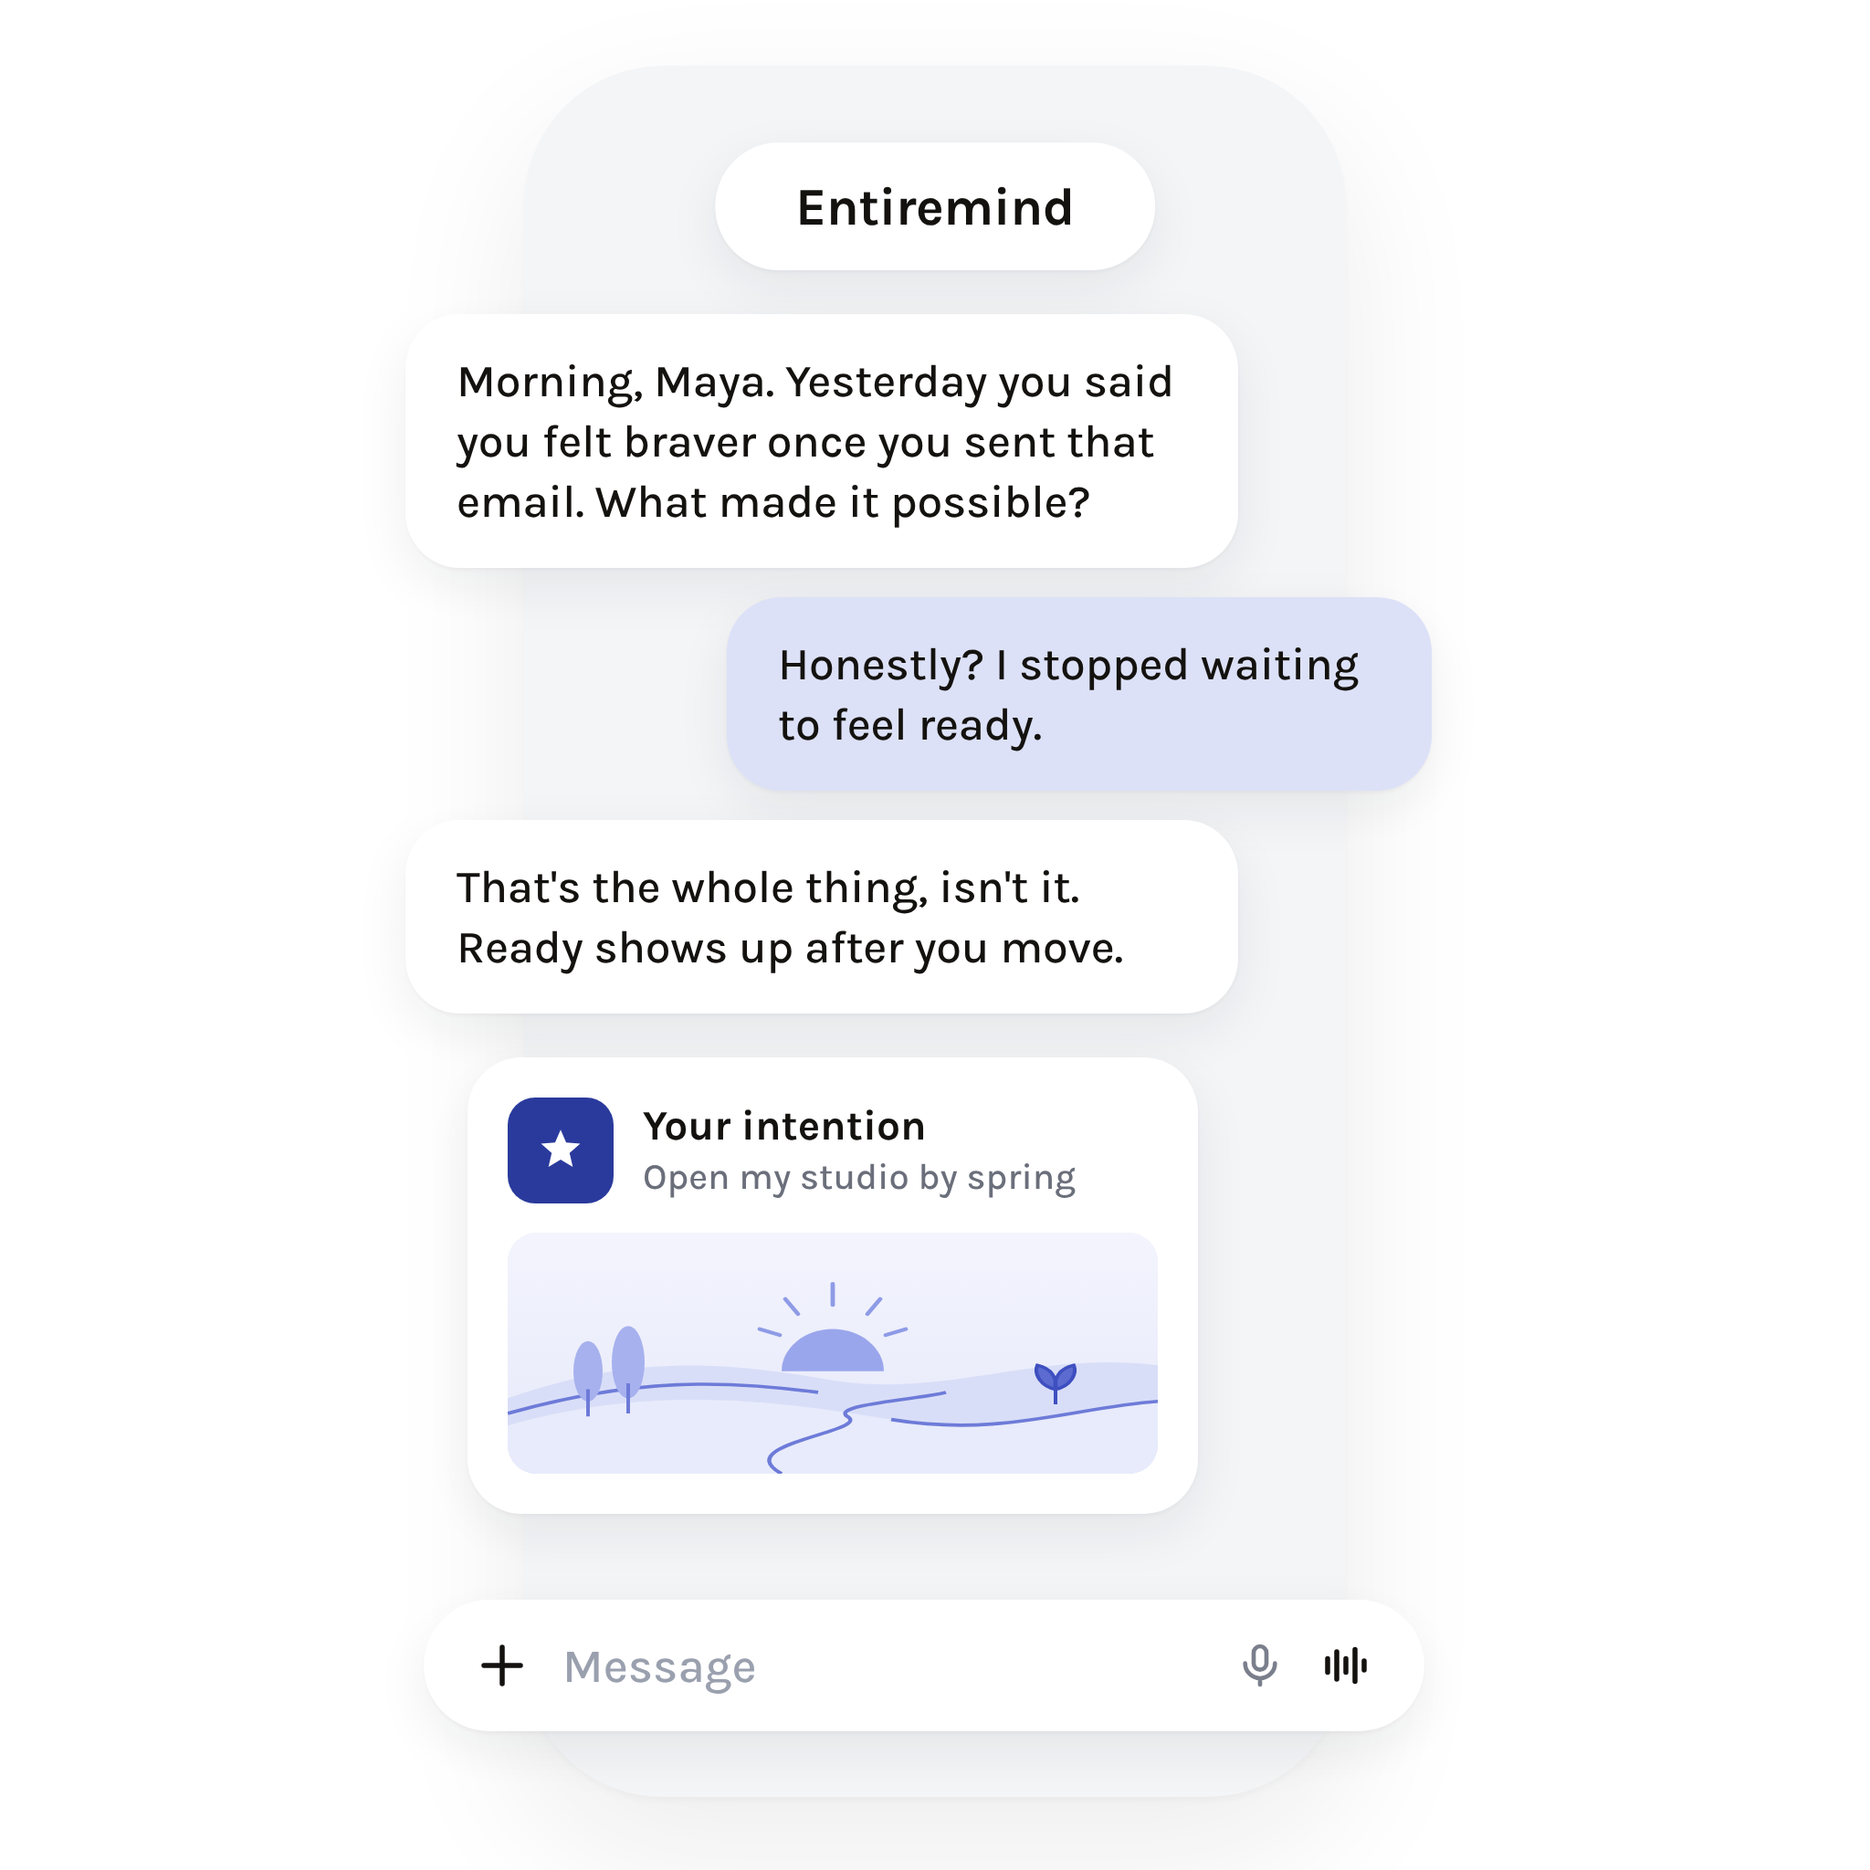
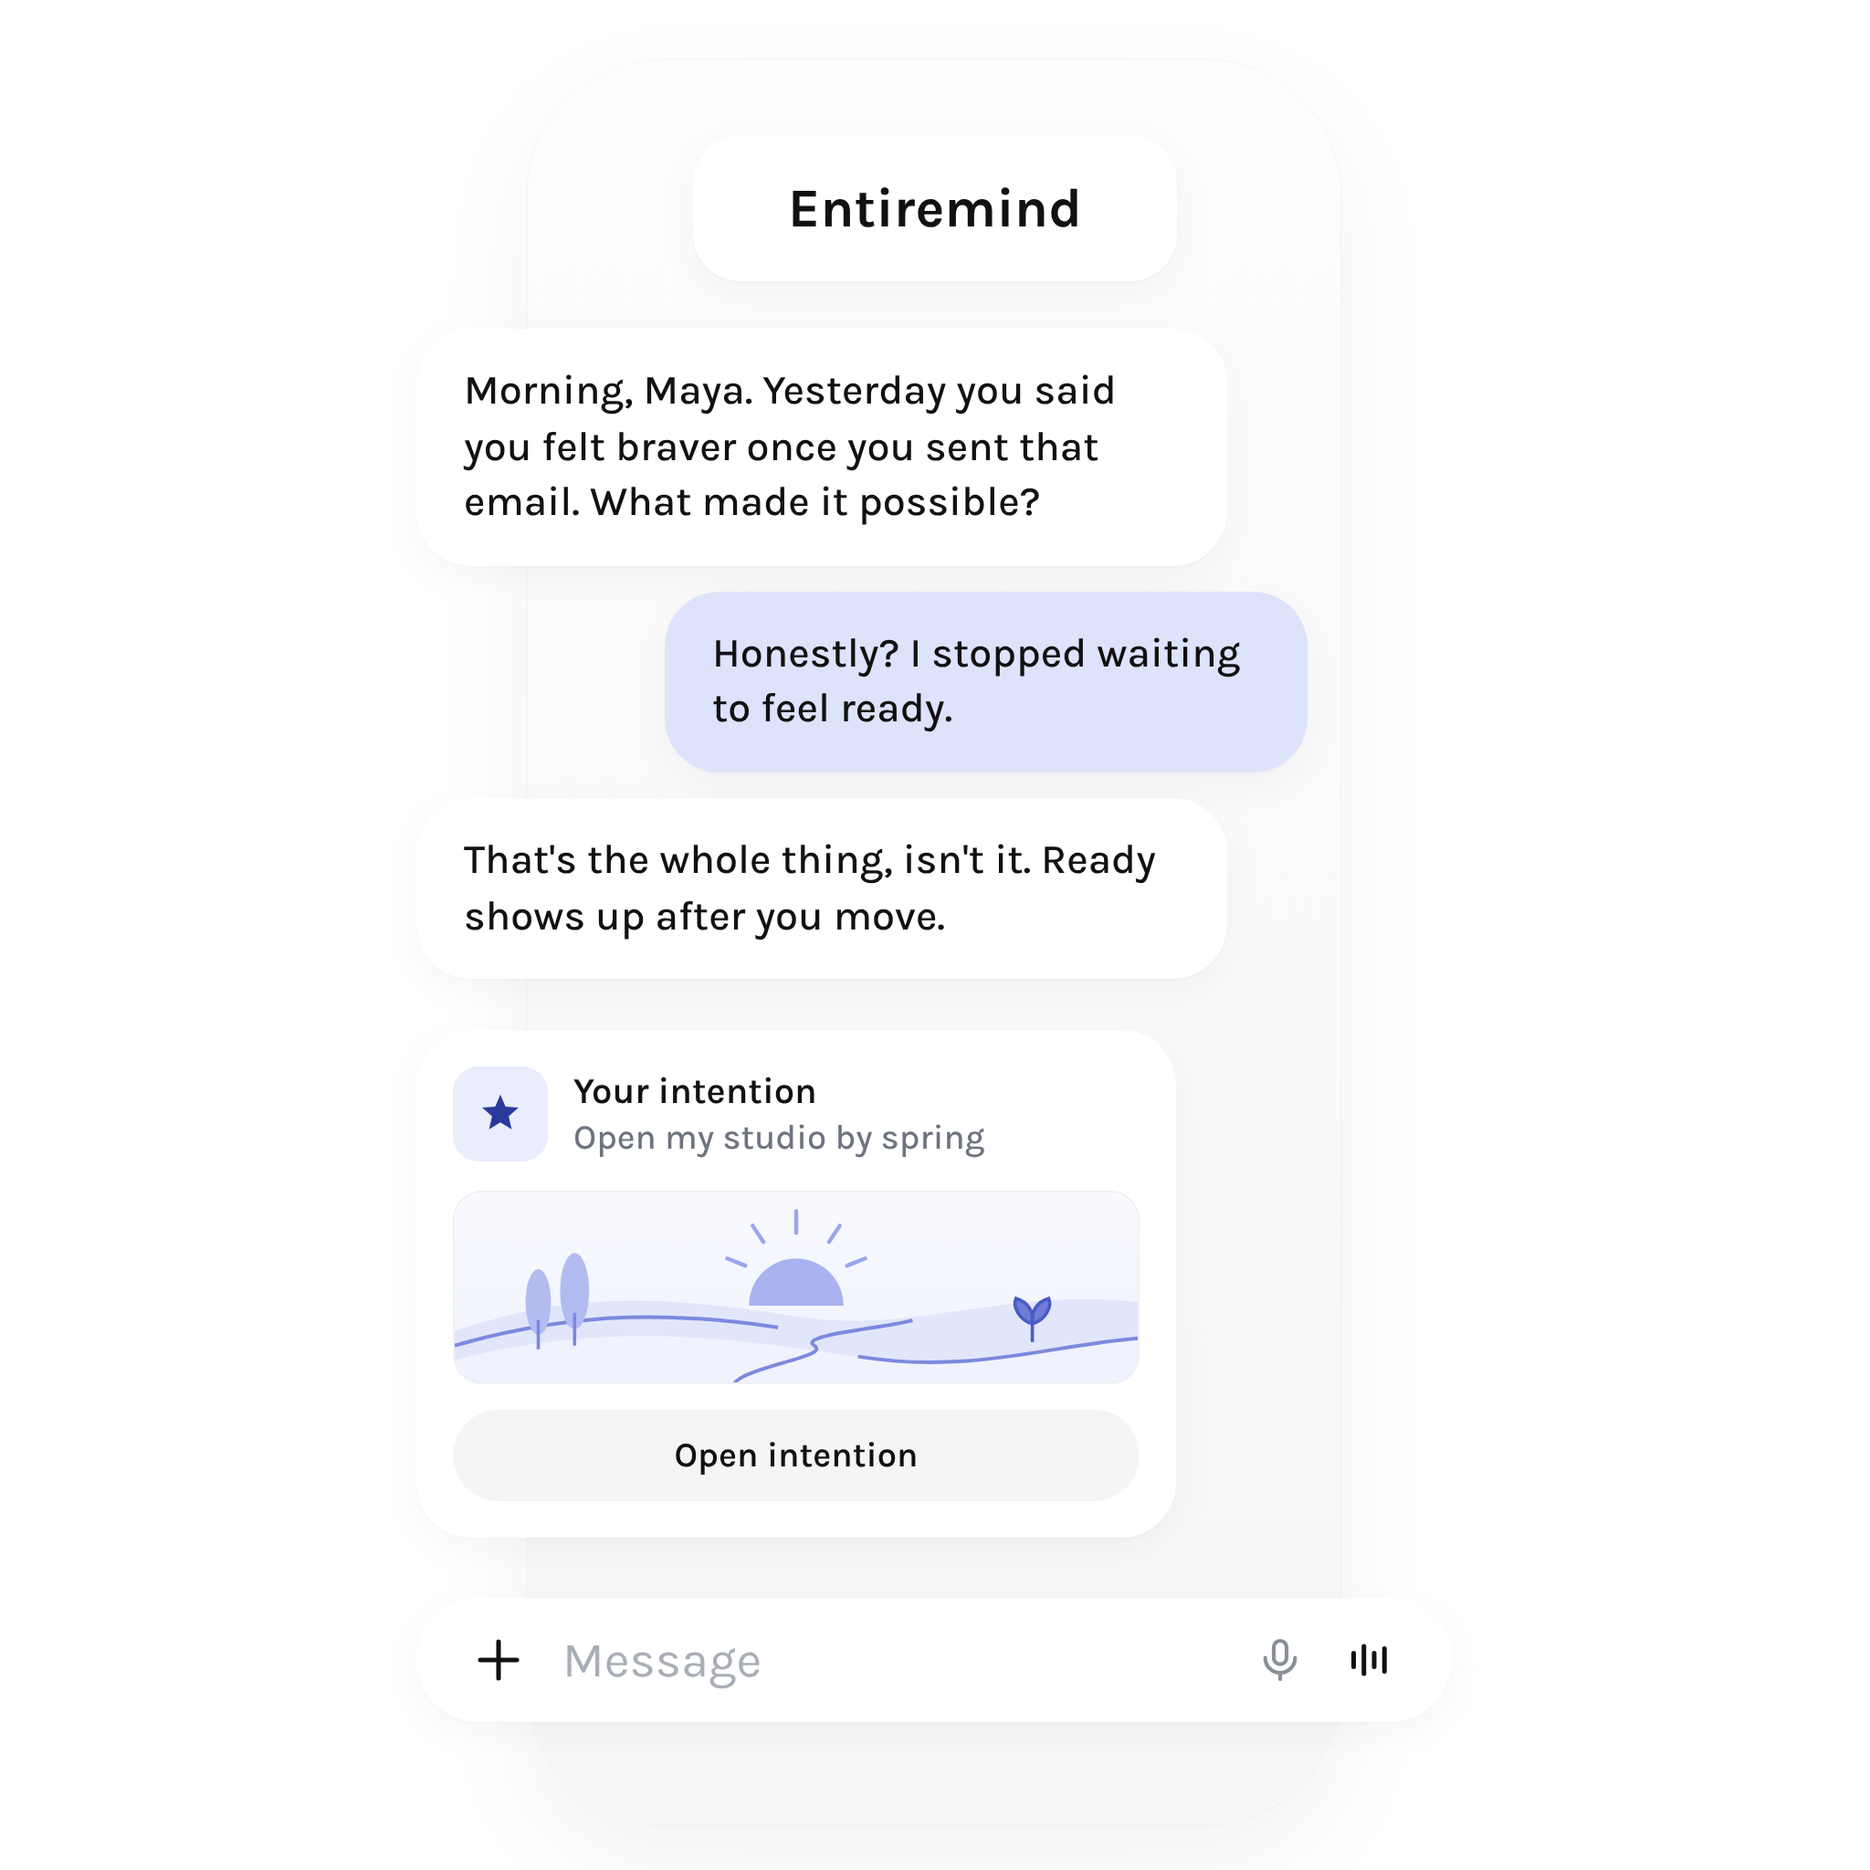
Lighten hero phone to match the reference
Panel ~#FAFAFA, pure-white surfaces, ~4-5% shadows, pale icon tile,
light reply bubble, card button. Variants: Karla, Inter, sky-blue reply.

Claude-Session: https://claude.ai/code/session_01XFR3k6ZrktobPacJJyLqAi

diff --git a/docs/marketing/hero-phone/phone.html b/docs/marketing/hero-phone/phone.html
@@ -2,78 +2,64 @@
 <html>
 <head>
 <meta charset="utf-8">
-<link href="https://fonts.googleapis.com/css2?family=Karla:wght@400;500;600;700&family=Prata&display=swap" rel="stylesheet">
+<link href="https://fonts.googleapis.com/css2?family=Karla:wght@400;500;600;700&family=Inter:wght@400;500;600;700&display=swap" rel="stylesheet">
 <style>
+  /* Values sampled from the Muse reference (panel ~#FAFAFA, surfaces pure white,
+     shadows ~4-5% alpha), with Entiremind cobalt as the single accent. */
   :root {
+    --font: "Karla", system-ui, sans-serif;
     --cobalt: #2A3A9C;
-    --cobalt-wash: #E7E9F4;
-    --ink: #14120F;
-    --muted: #6B6F7B;
-    --panel: #F4F5F7;
-    --bubble: #FFFFFF;
-    --out-bg: #DCE1F7;
-    --out-ink: #14120F;
-    --card: #FFFFFF;
-    --bar: #FFFFFF;
-    --shadow: 0 1px 2px rgba(20,24,40,.04), 0 10px 30px rgba(20,24,40,.07);
-    --panel-shadow: 0 2px 4px rgba(20,24,40,.03), 0 30px 80px rgba(20,24,40,.08);
+    --ink: #111111;
+    --muted: #6E7480;
+    --panel-top: #FDFDFD;
+    --panel-bot: #F7F7F7;
+    --surface: #FFFFFF;
+    --out-bg: #DDE3FB;          /* light cobalt */
+    --tile-bg: #E9EDFC;
+    --button-bg: #F3F5F7;
+    --placeholder: #A9AEB7;
+    --shadow: 0 1px 1px rgba(0,0,0,.02), 0 6px 24px rgba(0,0,0,.045);
+    --panel-shadow: 0 0 0 1px rgba(0,0,0,.025), 0 20px 60px rgba(0,0,0,.05);
   }
-  /* B: warm, brand linen */
-  body.warm {
-    --panel: #F3F0EA;
-    --bubble: #FFFDF9;
-    --out-bg: #E7E9F4;
-    --card: #FFFDF9;
-    --bar: #FFFDF9;
-    --muted: #7A7264;
-    --shadow: 0 1px 2px rgba(40,30,10,.04), 0 10px 30px rgba(40,30,10,.07);
-    --panel-shadow: 0 2px 4px rgba(40,30,10,.03), 0 30px 80px rgba(40,30,10,.08);
-  }
-  /* C: solid cobalt replies */
-  body.solid { --out-bg: var(--cobalt); --out-ink: #FFFFFF; }
+  body.inter { --font: "Inter", system-ui, sans-serif; }
+  body.sky { --out-bg: #CDE5FD; --tile-bg: #E6F4FF; }
 
   html, body { margin: 0; background: transparent; }
   body { width: 1024px; height: 1024px; position: relative; overflow: hidden;
-         font-family: "Karla", system-ui, sans-serif; color: var(--ink);
-         -webkit-font-smoothing: antialiased; }
+         font-family: var(--font); color: var(--ink); -webkit-font-smoothing: antialiased; }
+  body.inter { letter-spacing: -0.012em; }
 
-  .panel { position: absolute; left: 287px; top: 36px; width: 450px; height: 948px;
-           background: var(--panel); border-radius: 76px; box-shadow: var(--panel-shadow); }
+  .panel { position: absolute; left: 289px; top: 33px; width: 445px; height: 966px;
+           border-radius: 74px; box-shadow: var(--panel-shadow);
+           background: linear-gradient(180deg, var(--panel-top), var(--panel-bot)); }
 
-  .pill { position: absolute; left: 50%; top: 78px; transform: translateX(-50%);
-          background: var(--bubble); border-radius: 999px; padding: 18px 44px;
-          font-weight: 700; font-size: 29px; letter-spacing: -.01em; box-shadow: var(--shadow); }
+  .pill { position: absolute; left: 50%; top: 74px; transform: translateX(-50%);
+          background: var(--surface); border-radius: 26px; padding: 22px 52px;
+          font-weight: 700; font-size: 30px; box-shadow: var(--shadow); }
 
-  .bubble { position: absolute; background: var(--bubble); border-radius: 30px;
-            padding: 20px 28px; font-size: 25px; line-height: 1.32; font-weight: 500;
-            box-shadow: var(--shadow); letter-spacing: -.005em; }
-  .in { left: 228px; }
-  .out { right: 300px; background: var(--out-bg); color: var(--out-ink); }
+  .stack { position: absolute; left: 228px; top: 180px; width: 488px;
+           display: flex; flex-direction: column; gap: 14px; }
+  .bubble { background: var(--surface); border-radius: 30px; padding: 19px 26px;
+            font-size: 22.5px; line-height: 1.36; font-weight: 500; box-shadow: var(--shadow);
+            width: fit-content; max-width: 392px; }
+  .in { align-self: flex-start; }
+  .out { align-self: flex-end; background: var(--out-bg); max-width: 300px; }
 
-  .card { position: absolute; left: 265px; top: 560px; width: 400px; background: var(--card);
-          border-radius: 30px; padding: 22px; box-shadow: var(--shadow); box-sizing: border-box; }
-  .card-head { display: flex; align-items: center; gap: 16px; margin-bottom: 16px; }
-  .tile { width: 58px; height: 58px; border-radius: 15px; background: var(--cobalt);
+  .card { margin-top: 14px; width: 416px; background: var(--surface); border-radius: 30px;
+          padding: 20px; box-sizing: border-box; box-shadow: var(--shadow); }
+  .card-head { display: flex; align-items: center; gap: 14px; margin-bottom: 16px; }
+  .tile { width: 52px; height: 52px; border-radius: 14px; background: var(--tile-bg);
           display: grid; place-items: center; flex: none; }
-  .title { font-weight: 700; font-size: 23px; line-height: 1.15; }
-  .sub { color: var(--muted); font-size: 20px; font-weight: 500; margin-top: 3px; }
-  .art { border-radius: 16px; overflow: hidden; background: #EEF0FB; height: 132px; }
+  .title { font-weight: 600; font-size: 20px; line-height: 1.2; }
+  .sub { color: var(--muted); font-size: 19px; font-weight: 500; margin-top: 2px; }
+  .art { border-radius: 16px; overflow: hidden; border: 1px solid #F0F1F4; height: 104px; }
+  .btn { margin-top: 14px; height: 50px; border-radius: 999px; background: var(--button-bg);
+         display: grid; place-items: center; font-weight: 600; font-size: 19px; }
 
-  .bar { position: absolute; left: 232px; top: 876px; width: 548px; height: 72px;
-         background: var(--bar); border-radius: 999px; box-shadow: var(--shadow);
-         display: flex; align-items: center; padding: 0 28px; box-sizing: border-box; gap: 18px; }
-  .bar .ph { flex: 1; color: #9AA0AE; font-size: 26px; font-weight: 500; }
-
-  /* C variant: card floats outside, tilted */
-  body.float .card { left: 150px; top: 600px; transform: rotate(-5deg); }
-
-  .stack { position: absolute; left: 222px; top: 172px; width: 540px; display: flex;
-           flex-direction: column; gap: 16px; }
-  .stack .bubble { position: static; max-width: 400px; width: fit-content; }
-  .stack .in { align-self: flex-start; }
-  .stack .out { align-self: flex-end; margin-right: -22px; max-width: 330px; }
-  .stack .card { position: static; margin: 8px 0 0 34px; }
-  body.float .stack .card { margin: 14px 0 0 -70px; transform: rotate(-5deg); }
+  .bar { position: absolute; left: 228px; top: 875px; width: 567px; height: 68px;
+         background: var(--surface); border-radius: 999px; box-shadow: var(--shadow);
+         display: flex; align-items: center; padding: 0 30px; box-sizing: border-box; gap: 20px; }
+  .bar .ph { flex: 1; color: var(--placeholder); font-size: 27px; font-weight: 400; }
 </style>
 </head>
 <body>
@@ -84,44 +70,45 @@
     <div class="bubble in">Morning, Maya. Yesterday you said you felt braver once you sent that email. What made it possible?</div>
     <div class="bubble out">Honestly? I stopped waiting to feel ready.</div>
     <div class="bubble in">That's the whole thing, isn't it. Ready shows up after you move.</div>
-    <div class="card">
-    <div class="card-head">
-      <div class="tile">
-        <svg width="28" height="28" viewBox="0 0 24 24"><path fill="#fff" d="M12 2.2l2.6 6.1 6.6.5-5 4.4 1.5 6.5L12 16.3l-5.7 3.4 1.5-6.5-5-4.4 6.6-.5z"/></svg>
-      </div>
-      <div>
-        <div class="title">Your intention</div>
-        <div class="sub">Open my studio by spring</div>
-      </div>
-    </div>
-    <div class="art">
-      <svg viewBox="0 0 356 160" width="100%" height="132" preserveAspectRatio="none">
-        <defs><linearGradient id="sky" x1="0" y1="0" x2="0" y2="1"><stop offset="0" stop-color="#F3F4FD"/><stop offset="1" stop-color="#E6E9FA"/></linearGradient></defs>
-        <rect width="356" height="160" fill="url(#sky)"/>
-        <g stroke="#8E9BE6" stroke-width="2.4" stroke-linecap="round">
-          <line x1="178" y1="34" x2="178" y2="48"/><line x1="152" y1="44" x2="159" y2="54"/><line x1="204" y1="44" x2="197" y2="54"/>
-          <line x1="138" y1="64" x2="149" y2="68"/><line x1="218" y1="64" x2="207" y2="68"/>
-        </g>
-        <path d="M150 92a28 28 0 0 1 56 0z" fill="#9AA6EC"/>
-        <path d="M0 110 C70 80 120 86 178 98 C240 110 290 78 356 88 L356 160 L0 160Z" fill="#D9DEF8"/>
-        <path d="M0 128 C80 100 150 112 210 124 C270 136 310 116 356 112 L356 160 L0 160Z" fill="#E8EBFB"/>
-        <path d="M0 120 C70 96 120 98 170 106" fill="none" stroke="#6D7BD8" stroke-width="2.2"/>
-        <path d="M210 124 C270 136 310 116 356 112" fill="none" stroke="#6D7BD8" stroke-width="2.2"/>
-        <path d="M150 160 C120 140 200 132 186 122 C176 114 230 110 240 106" fill="none" stroke="#6D7BD8" stroke-width="2.2"/>
-        <ellipse cx="44" cy="92" rx="8" ry="20" fill="#A7B1EE"/><line x1="44" y1="104" x2="44" y2="122" stroke="#6D7BD8" stroke-width="2"/>
-        <ellipse cx="66" cy="86" rx="9" ry="24" fill="#A7B1EE"/><line x1="66" y1="100" x2="66" y2="120" stroke="#6D7BD8" stroke-width="2"/>
-        <path d="M300 114 v-16 M300 104 c-8-2-12-10-10-16 8 2 11 9 10 16 M300 104 c8-2 12-10 10-16 -8 2-11 9-10 16" stroke="#3E4FC0" stroke-width="2" fill="#5C6BD0"/>
-      </svg>
-    </div>
-  </div>
 
+    <div class="card">
+      <div class="card-head">
+        <div class="tile">
+          <svg width="26" height="26" viewBox="0 0 24 24"><path fill="#2A3A9C" d="M12 2.2l2.6 6.1 6.6.5-5 4.4 1.5 6.5L12 16.3l-5.7 3.4 1.5-6.5-5-4.4 6.6-.5z"/></svg>
+        </div>
+        <div>
+          <div class="title">Your intention</div>
+          <div class="sub">Open my studio by spring</div>
+        </div>
+      </div>
+      <div class="art">
+        <svg viewBox="0 0 376 124" width="100%" height="104" preserveAspectRatio="xMidYMid slice">
+          <defs><linearGradient id="sky" x1="0" y1="0" x2="0" y2="1"><stop offset="0" stop-color="#FAFBFF"/><stop offset="1" stop-color="#EEF1FD"/></linearGradient></defs>
+          <rect width="376" height="124" fill="url(#sky)"/>
+          <g stroke="#9AA6EC" stroke-width="2.2" stroke-linecap="round">
+            <line x1="188" y1="20" x2="188" y2="32"/><line x1="164" y1="28" x2="170" y2="37"/><line x1="212" y1="28" x2="206" y2="37"/>
+            <line x1="150" y1="46" x2="160" y2="50"/><line x1="226" y1="46" x2="216" y2="50"/>
+          </g>
+          <path d="M162 72a26 26 0 0 1 52 0z" fill="#A9B3F0"/>
+          <path d="M0 86 C70 62 124 68 188 78 C252 88 304 62 376 70 L376 124 L0 124Z" fill="#E1E6FB"/>
+          <path d="M0 102 C84 80 156 90 220 100 C284 110 326 94 376 90 L376 124 L0 124Z" fill="#F0F2FD"/>
+          <path d="M0 94 C70 74 124 76 178 84" fill="none" stroke="#7C89DE" stroke-width="2"/>
+          <path d="M222 100 C284 110 326 94 376 90" fill="none" stroke="#7C89DE" stroke-width="2"/>
+          <path d="M160 124 C130 108 210 102 198 94 C188 88 240 84 252 80" fill="none" stroke="#7C89DE" stroke-width="2"/>
+          <ellipse cx="46" cy="70" rx="7" ry="18" fill="#B3BCF1"/><line x1="46" y1="80" x2="46" y2="96" stroke="#7C89DE" stroke-width="1.8"/>
+          <ellipse cx="66" cy="64" rx="8" ry="21" fill="#B3BCF1"/><line x1="66" y1="76" x2="66" y2="94" stroke="#7C89DE" stroke-width="1.8"/>
+          <path d="M318 92 v-14 M318 82 c-7-2-11-9-9-14 7 2 10 8 9 14 M318 82 c7-2 11-9 9-14 -7 2-10 8-9 14" stroke="#4A5AC6" stroke-width="1.8" fill="#6E7CD6"/>
+        </svg>
+      </div>
+      <div class="btn">Open intention</div>
+    </div>
   </div>
 
   <div class="bar">
-    <svg width="30" height="30" viewBox="0 0 24 24"><path d="M12 4v16M4 12h16" stroke="#14120F" stroke-width="2.2" stroke-linecap="round"/></svg>
+    <svg width="30" height="30" viewBox="0 0 24 24"><path d="M12 4v16M4 12h16" stroke="#111" stroke-width="2" stroke-linecap="round"/></svg>
     <div class="ph">Message</div>
-    <svg width="28" height="28" viewBox="0 0 24 24" fill="none" stroke="#7A7F8C" stroke-width="2" stroke-linecap="round"><rect x="9" y="3" width="6" height="11" rx="3"/><path d="M5 11a7 7 0 0 0 14 0M12 18v3"/></svg>
-    <svg width="30" height="30" viewBox="0 0 24 24" stroke="#14120F" stroke-width="2.2" stroke-linecap="round"><path d="M4 9v6M8 6v12M12 9v6M16 5v14M20 10v4"/></svg>
+    <svg width="28" height="28" viewBox="0 0 24 24" fill="none" stroke="#8A9099" stroke-width="1.8" stroke-linecap="round"><rect x="9" y="3" width="6" height="11" rx="3"/><path d="M5 11a7 7 0 0 0 14 0M12 18v3"/></svg>
+    <svg width="30" height="30" viewBox="0 0 24 24" stroke="#111" stroke-width="2" stroke-linecap="round"><path d="M5 9v6M9.5 6v12M14 9v6M18.5 7v10"/></svg>
   </div>
 </body>
 </html>

diff --git a/docs/marketing/hero-phone/render.js b/docs/marketing/hero-phone/render.js
@@ -1,6 +1,6 @@
 const { chromium } = require('playwright');
 const dir = process.argv[2];
-const variants = { a: '', b: 'warm', c: 'solid', d: 'warm solid float' };
+const variants = { a: '', b: 'inter', c: 'sky' };
 (async () => {
   const b = await chromium.launch();
   const p = await b.newPage({ viewport: { width: 1024, height: 1024 }, deviceScaleFactor: 2 });
